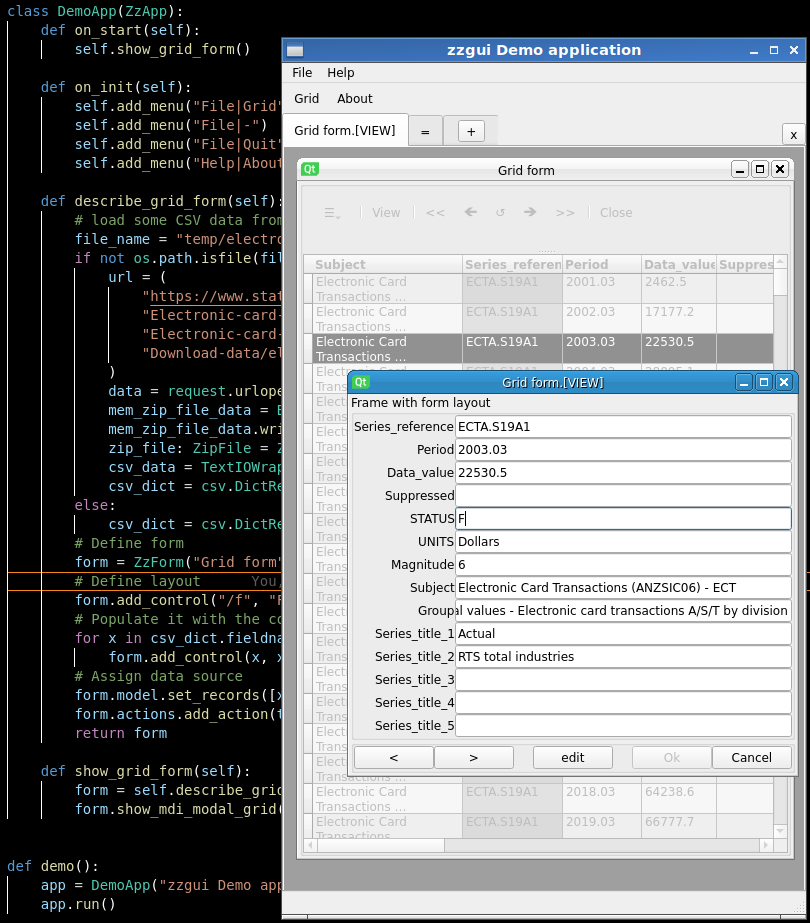
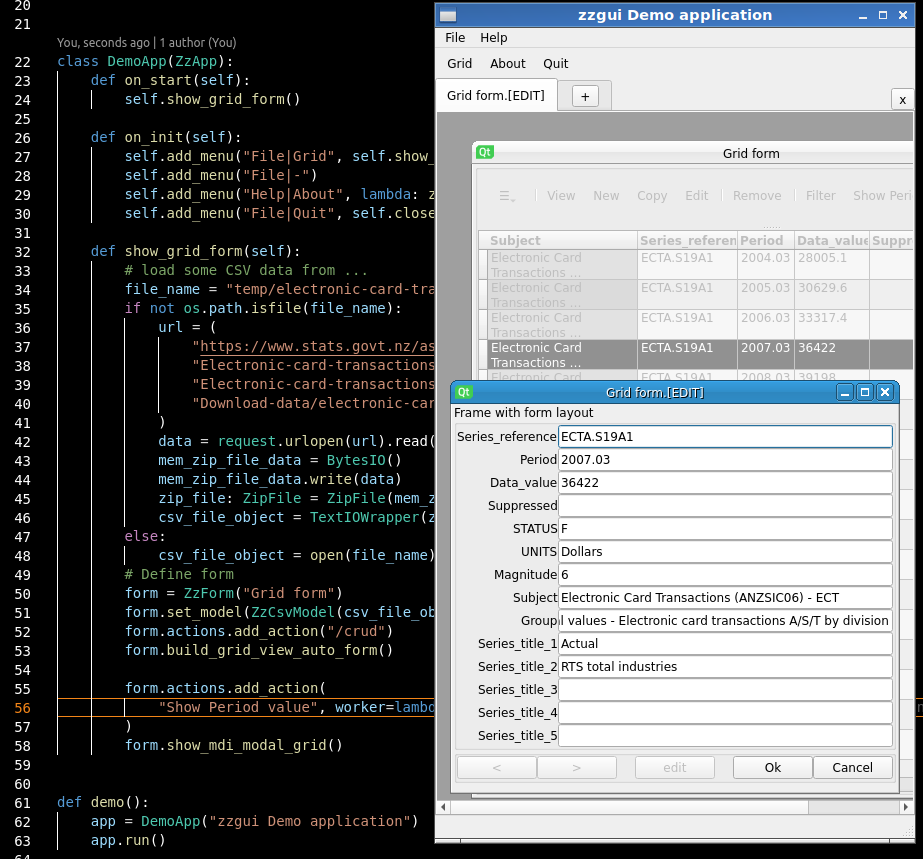
demo files

diff --git a/demo/demo_01.py b/demo/demo_01.py
@@ -1,3 +1,8 @@
+"""shows
+defining the main menu and toolbar shortcuts
+the possibilities for creating complex user interface forms
+managing main window appearance
+"""
 if __name__ == "__main__":
     import sys
 
@@ -7,6 +12,7 @@ from zzgui.qt5.zzapp import ZzApp as ZzApp
 from zzgui.qt5.zzform import ZzForm as ZzForm
 from zzgui.qt5.zzform import zzMess
 from zzgui.zzapp import ZzActions
+from zzgui.zzdialogs import zzAskYN
 
 
 class DemoApp(ZzApp):
@@ -32,17 +38,33 @@ class DemoApp(ZzApp):
         self.add_menu("File|Quit", self.close, toolbar="*")
 
     def first_form(self):
+        form = ZzForm("First form ever")
+
         actions = ZzActions()
         # actions.show_main_button = False
         # actions.show_actions = False
-        actions.add_action("Action 1", lambda: zzMess("Action 1"))
-        actions.add_action("Action 2", lambda: zzMess("Action 2"))
+        actions.add_action(
+            "Action 1",
+            lambda: zzMess(
+                "I am the Action 1.<br><br>"
+                "<font color=red>You can reach me also with </font>"
+                "<font size=+5 color=darkblue>mouse <b>left click</b>!</font>"
+            ),
+        )
 
-        form = ZzForm("First form ever")
-        # form.add_control("/h", "main window control")
+        def action2():
+            form.s.name = form.s.name + "+0"
+            form.w.name.set_focus()
+            zzMess(
+                "Ich bin <b>Action zwei</b><br><br>"
+                "<font size=+2 color green>Look,"
+                "I have changed 'Enter your name' field</b></font><br>"
+                "and set focus to it"
+            )
+
+        actions.add_action("Action 2", worker=action2)
+
         form.add_control("toolbar", "", actions=actions, control="toolbar")
-        # form.add_control("/")
-
         if form.add_control("/h", "main window control"):
             form.add_control(
                 label="Main menu on/off",
@@ -71,33 +93,37 @@ class DemoApp(ZzApp):
             name="name",
             label="Enter your name",
             control="line",
-            data="simple data",
+            data="FirstName LastName",
         )
 
         if form.add_control("/t", "Tab1"):
             form.add_control("/hs")
-            form.add_control("", "11111111111111111111")
+            form.add_control(
+                "",
+                "Just a multiline label on tab1.<br>"
+                "<b>Look</b>,"
+                "This tab has a splitter! <b><br>"
+                "And it has a <font color=red>memory!</b>",
+            )
             form.add_control("spin1", "Spinbox", control="spin")
             form.add_control("/s")
-            form.add_control("", "5555555555555555555")
+            form.add_control(name="z1", label="Enter smths", control="line")
+
         if form.add_control("/t", "Tab2"):
-            form.add_control("", "2222222222222222222")
+            form.add_control("", "Just label on Tab2")
         form.add_control("/")
         form.add_control("/")
-        form.add_control("", "44444444444444444444444")
 
         if form.add_control("/t", "Tab3"):
-            form.add_control("", "11111111111111111111")
+            form.add_control("", "Label on tab3")
 
-        if form.add_control("/t", "Tab2"):
+        if form.add_control("/t", "Tab4"):
             form.add_control("", "2222222222222222222")
         form.add_control("/")
-
-        form.add_control("", "44444444444444444444444")
 
         if form.add_control(name="/h", label="Horizontal frame"):
 
-            if form.add_control(name="/vs", label="Vertical frame"):
+            if form.add_control(name="/vs", label="Vertical frame has a splitter too"):
                 form.add_control(label="just label 1")
                 form.add_control(label="just label 2")
                 form.add_control(
@@ -113,7 +139,7 @@ class DemoApp(ZzApp):
             if form.add_control(name="/f", label="Form frame"):
                 form.add_control(
                     "radio",
-                    "Radio buttn",
+                    "Radio buttons",
                     pic="option 1;option 2;option 3",
                     control="radio",
                 )
@@ -141,24 +167,38 @@ class DemoApp(ZzApp):
             name="text",
             label="Enter big text",
             control="text",
-            data="simple text<br>line2",
+            data="simple <b>text<br>line2",
         )
 
-        if form.add_control("/h", "buttons"):
+        if form.add_control("/h", "ToolButtons"):
             form.add_control(
-                label="tool",
+                label="toolbutton \ni can show focus widget value",
                 control="toolbutton",
-                valid=lambda: print(
-                    f"{self.focusWidget()}!{self.focusWidget().get_text()}"
-                ),
+                valid=lambda: zzMess(f"{self.focus_widget().get_text()}"),
+            )
+
+            def close_form():
+                if zzAskYN("<b><font size=+3 color=darkred>Are you sure?") == 2:
+                    form.close()
+
+            form.add_control(
+                label="I can close the form",
+                control="toolbutton",
+                valid=close_form,
             )
             form.add_control("/s")
-            form.add_control(
-                label="Ok",
-                control="button",
-                valid=lambda: zzMess("3333333333333333"),
+            form.add_ok_cancel_buttons()
+            form.system_controls.c._ok_button[
+                "label"
+            ] = "I am a system button,\ni have been renamed"
+
+            form.valid = (
+                lambda: zzAskYN(
+                    "<font color=yellow size=+4>" "Are you really want to close ME?"
+                )
+                == 2
             )
-            form.add_control(label="Cancel", control="button", valid=form.close)
+
         form.add_control("/")
 
         form.show_mdi_modal_form()

diff --git a/demo/demo_02.py b/demo/demo_02.py
@@ -1,3 +1,5 @@
+"""Shows the possibilities of combining several forms into one
+"""
 if __name__ == "__main__":
     import sys
 
@@ -12,13 +14,13 @@ from zzgui.zzutils import num
 
 class DemoApp(ZzApp):
     def on_start(self):
-        self.show_form4()
+        self.show_complex_form()
 
     def on_init(self):
         self.add_menu("File|First", self.show_form1, toolbar="*")
         self.add_menu("File|Second", self.show_form2, toolbar="*")
-        self.add_menu("File|Complex", self.show_form3, toolbar="*")
-        self.add_menu("File|Grid", self.show_form4, toolbar="*")
+        self.add_menu("File|Grid", self.show_grid_form, toolbar="*")
+        self.add_menu("File|Complex", self.show_complex_form, toolbar="*")
         self.add_menu("File|-")
         self.add_menu("File|Options|Toogle toolbar", self.show_hide_toolbar)
         self.add_menu("File|Options|Toogle menubar", self.show_hide_menubar)
@@ -98,7 +100,7 @@ class DemoApp(ZzApp):
     def show_form2(self):
         self.describe_form2().show_mdi_modal_form()
 
-    def describe_form3(self):
+    def describe_complex_form(self):
         form = ZzForm("Complex form")
         form.add_control("/h")
         form.add_control("", "1", widget=self.describe_form1())
@@ -107,10 +109,14 @@ class DemoApp(ZzApp):
         f2 = self.describe_form2()
         form.add_control("", "2", widget=f1)
         form.add_control("", "3", widget=f2)
+        form.add_control("/")
+        form.add_control("/")
+        form.add_control("", "4", widget=self.describe_grid_form().get_grid_widget())
+
         return form
 
-    def show_form3(self):
-        self.describe_form3().show_mdi_modal_form()
+    def show_complex_form(self):
+        self.describe_complex_form().show_mdi_modal_form()
 
     def describe_form4(self):
         form = ZzForm("Grid form")
@@ -124,7 +130,7 @@ class DemoApp(ZzApp):
         form.add_control("date", "Date of bith", control="date", data="1990-05-01")
         return form
 
-    def show_form4(self):
+    def describe_grid_form(self):
         data = [
             {"uid": 1, "name": "Lorem Ipsum", "date": "2005-01-15"},
             {"uid": 2, "name": "Dolor Sit", "date": "2005-01-15"},
@@ -133,6 +139,10 @@ class DemoApp(ZzApp):
         ]
         form = self.describe_form4()
         form.model.set_records(data)
+        return form
+
+    def show_grid_form(self):
+        form = self.describe_grid_form()
         form.show_mdi_modal_grid()
 
     def show_hide_menubar(self):

diff --git a/zzgui/zzform.py b/zzgui/zzform.py
@@ -26,7 +26,7 @@ class ZzForm:
         self.form_stack = []
         self.actions = zzapp.ZzActions()
         self.controls = zzapp.ZzControls()
-        self.final_controls = zzapp.ZzControls()
+        self.system_controls = zzapp.ZzControls()
         self.model: ZzModel = self.set_model(ZzModel())
         # Shortcuts to get
         self.s = ZzFormData(self)  # widgets data by name
@@ -64,6 +64,9 @@ class ZzForm:
 
     def widgets_list(self):
         return [self.form_stack[-1].widgets[x] for x in self.form_stack[-1].widgets]
+
+    def focus_widget(self):
+        return zzapp.zz_app.focus_widget()
 
     def close(self):
         if self._in_close_flag:
@@ -195,7 +198,7 @@ class ZzForm:
             valid=self.close,
         )
 
-        self.final_controls = buttons
+        self.system_controls = buttons
 
     def add_crud_buttons(self, mode):
         buttons = zzapp.ZzControls()
@@ -249,7 +252,7 @@ class ZzForm:
             mess="Do not save data",
             valid=self.crud_close,
         )
-        self.final_controls = buttons
+        self.system_controls = buttons
 
     def crud_view_to_edit(self):
         self.crud_form.set_title(f"{self.title}.[EDIT]")
@@ -379,7 +382,7 @@ class ZzForm:
         self.grid_form.move_grid_index(mode)
 
     def get_controls(self):
-        return self.controls.controls + self.final_controls.controls
+        return self.controls.controls + self.system_controls.controls
 
     def when(self):
         pass

diff --git a/zzgui/zzapp.py b/zzgui/zzapp.py
@@ -62,7 +62,7 @@ class ZzControls:
             for line in self.controls.controls:
                 if line.get("name") == name or line.get("tag") == name:
                     return line
-            return {}
+            return [line['name'] for line in self.controls.controls]
 
     def __init__(self):
         self.controls = []
@@ -207,6 +207,9 @@ class ZzApp:
         sys.exit(0)
 
     def show_form(self, form=None, modal="modal"):
+        pass
+
+    def focus_widget(self):
         pass
 
     def lock(self):

diff --git a/zzgui/qt5/zzapp.py b/zzgui/qt5/zzapp.py
@@ -107,6 +107,10 @@ class ZzApp(zzapp.ZzApp, QApplication):
         self.main_window.setContextMenuPolicy(Qt.ActionsContextMenu)
         self.main_window.addActions(self.main_window.menuBar().actions())
 
+    def focus_widget(self):
+        return qApp.focusWidget()
+
+
     def lock(self):
         self.main_window.menuBar().setDisabled(True)
         self.main_window.zz_toolbar.setDisabled(True)

diff --git a/zzgui/qt5/widgets/__init__.py b/zzgui/qt5/widgets/__init__.py
@@ -8,6 +8,7 @@ from zzgui.qt5.widgets import (
     zztext,
     zzbutton,
     zzradio,
+    zzcombo,
     zztoolbutton,
     zzprogressbar,
     zzgrid,
@@ -28,6 +29,7 @@ from zzgui.qt5.widgets import (
     zztext,
     zzbutton,
     zzradio,
+    zzcombo,
     zztoolbutton,
     zzprogressbar,
     zzgrid,

diff --git a/README.md b/README.md
@@ -8,8 +8,14 @@ pip3 install poetry
 poetry shell
 poetry install
 python3 demo/demo.py
+python3 demo/demo_01.py
+python3 demo/demo_02.py
+python3 demo/demo_03.py
+python3 demo/demo_04.py
 ```
 
+# demo/demo_03.py screenshot
+![Alt text](https://andreipuchko.github.io/zzgui/screenshot.png)
 # Build standalone executable 
 (The resulting executable file will appear in the folder  dist/)
 ## One file
@@ -21,5 +27,3 @@ pyinstaller -F demo/demo.py
 ```bash
 pyinstaller -D demo/demo.py
 ```
-
-![Alt text](https://andreipuchko.github.io/zzgui/screenshot.png)
